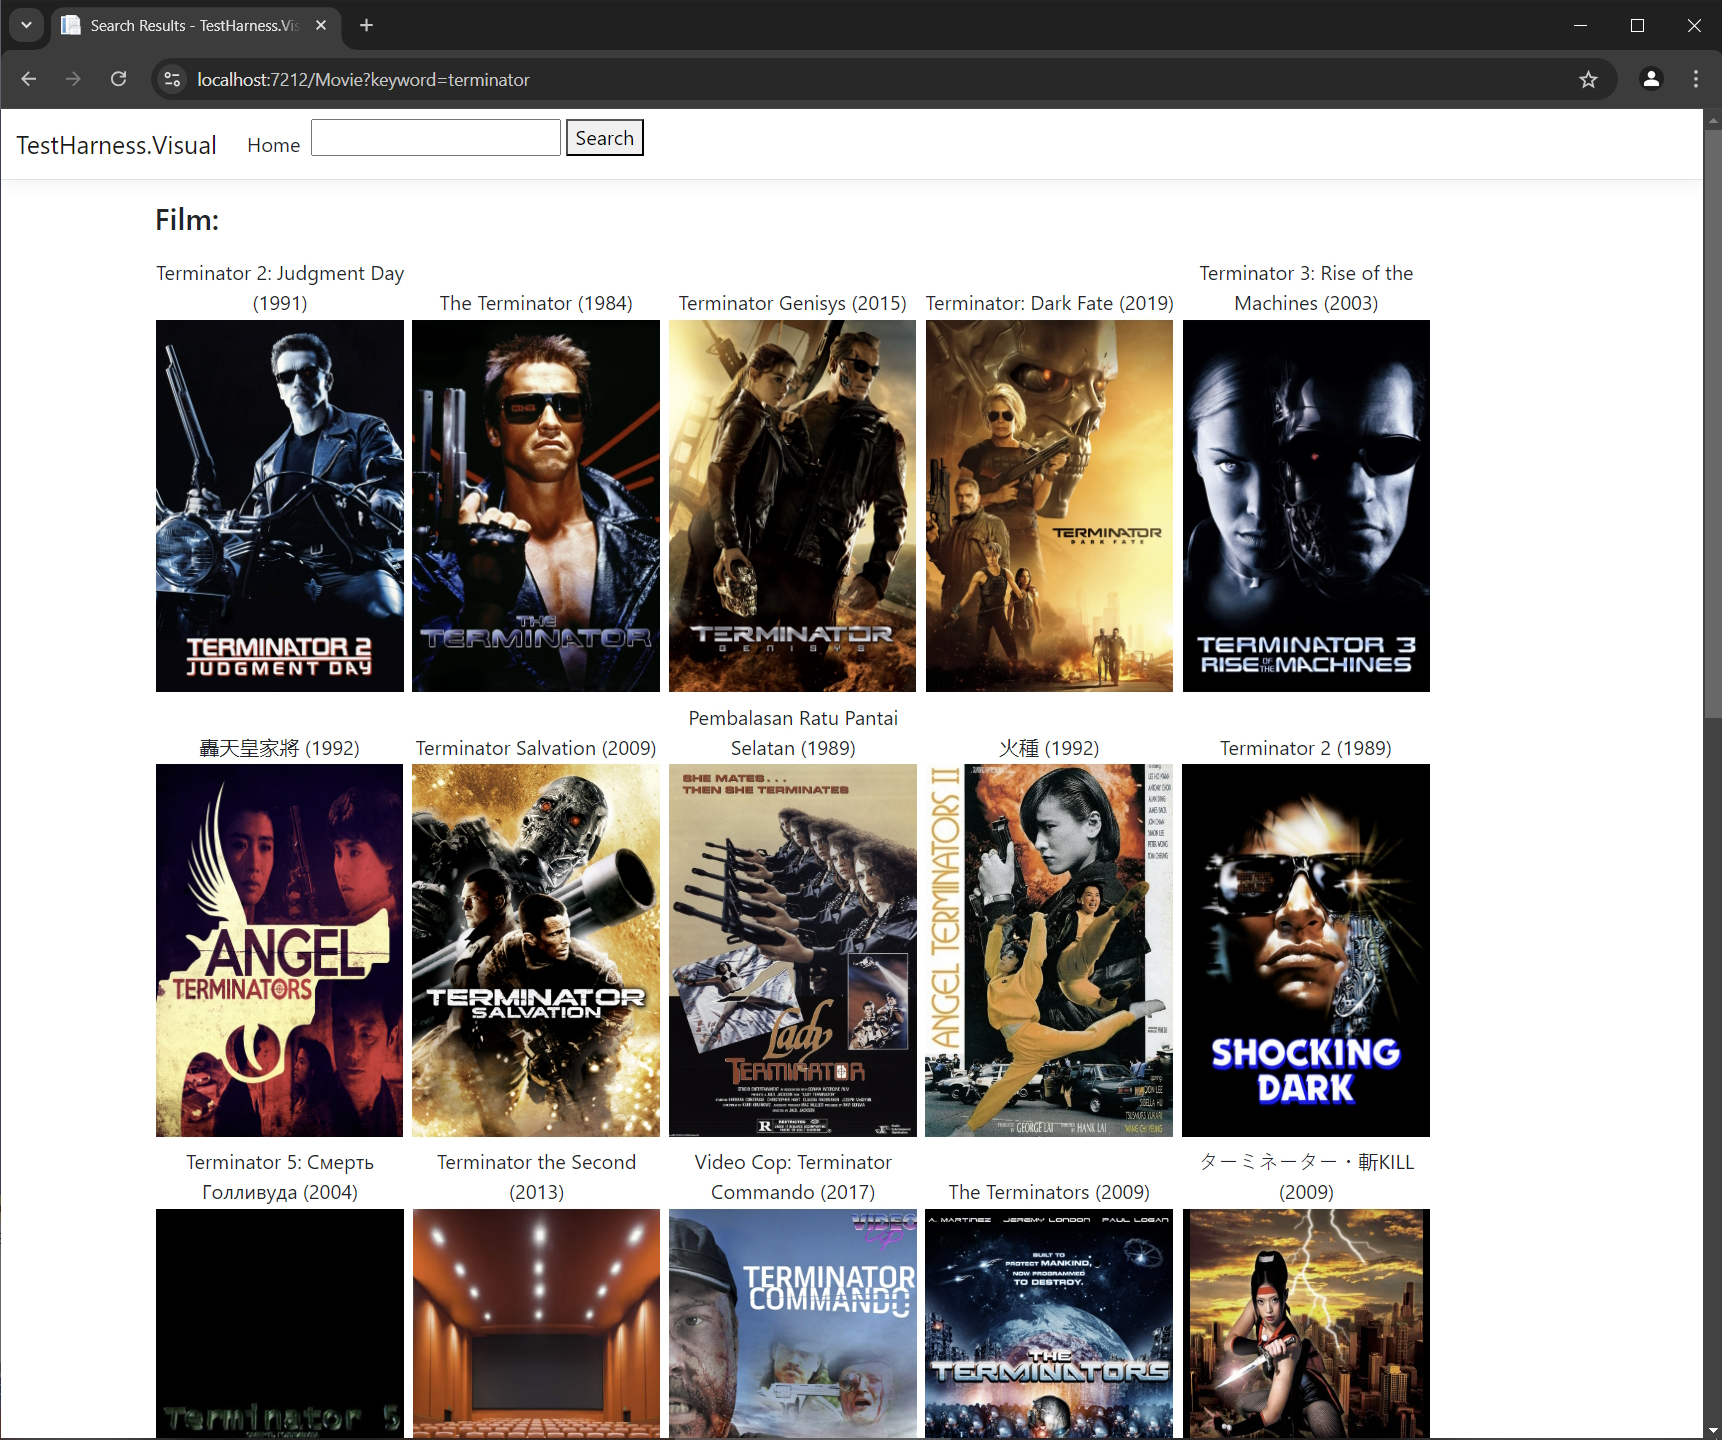
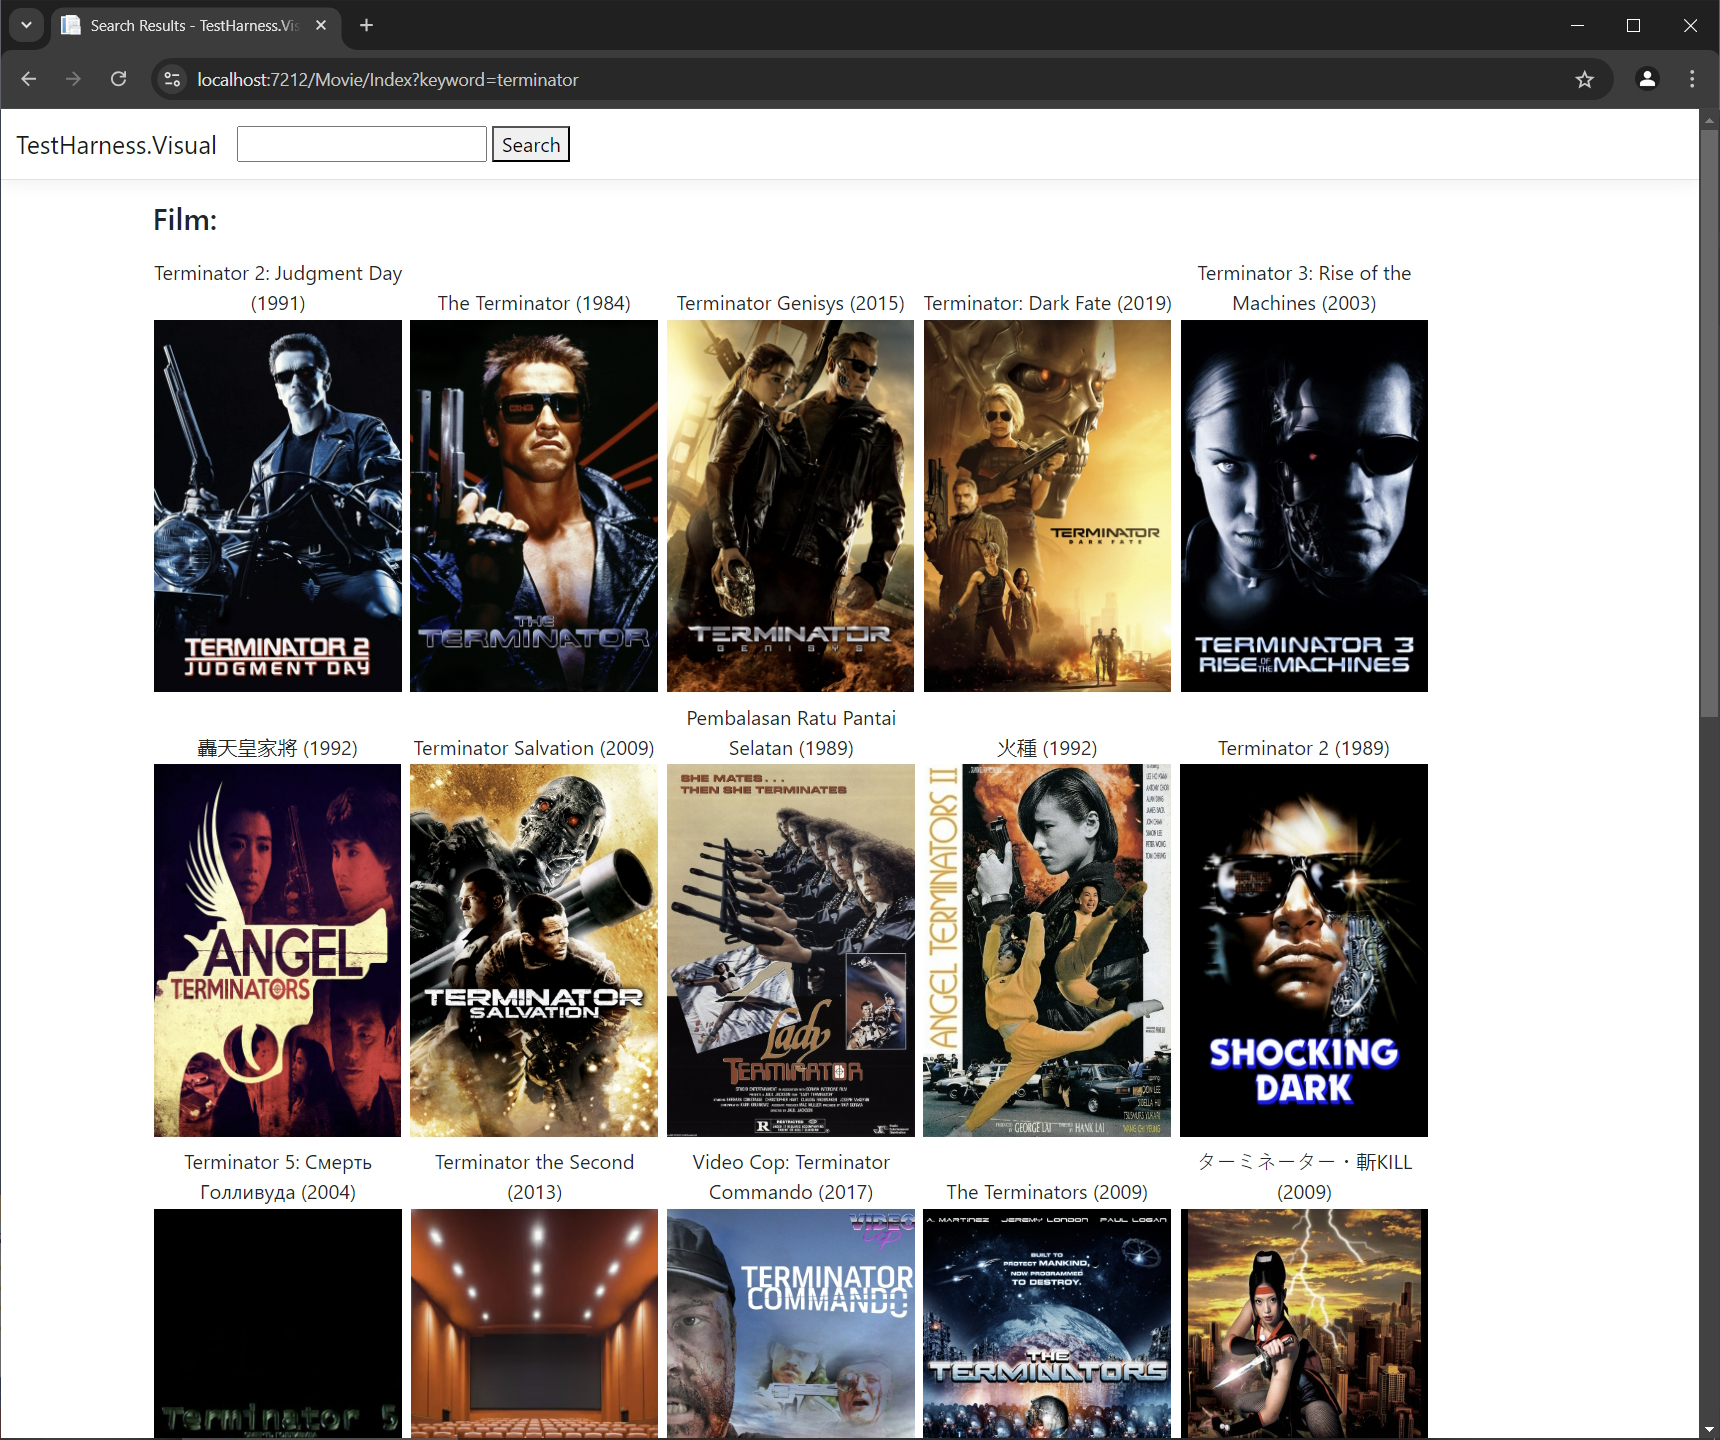
A few new TMDB API endpoints have now been added along with support for pulling back cast / crew data for film id results.  Some refactoring also done on the code and addition of updated images.

diff --git a/TestHarness.Visual/wwwroot/css/site.css b/TestHarness.Visual/wwwroot/css/site.css
@@ -28,3 +28,19 @@ body {
     /*padding-bottom: 10px;*/
     /*border: 1px solid black;*/
 }
+
+.filmTvPosterImgSize {
+    /*Poster sizing issues are caused if this is set to a % value*/
+    width: 198px;
+    height: 298px;
+}
+
+.filmTvDetailPosterImgSize {
+    width: 20%;
+    height: 20%;
+}
+
+.castImgSize {
+    width: 40%;
+    height: 40%;
+}

diff --git a/TmdbApi.Lib/Tmdb.cs b/TmdbApi.Lib/Tmdb.cs
@@ -34,7 +34,7 @@ namespace TmdbApi.Lib
                 {
                     return JsonConvert.DeserializeObject<Rootobject>(rawResponse);
                 }
-                catch(Exception ex) 
+                catch (Exception ex)
                 {
                     return null;
                 }
@@ -85,25 +85,58 @@ namespace TmdbApi.Lib
         {
             string query = Endpoint.SearchMovie + keyword + "&include_adult=false&language=en-US&page=1";
 
-            Rootobject result = CallTmdbApi(query);
-
-            return result;
+            return CallTmdbApi(query);
         }
 
         /// <summary>
-        /// Search the Movie endpoint for a specific result that matches the id
+        /// Search the TV endpoint for results that match the keyword
+        /// </summary>
+        /// <param name="keyword"></param>
+        /// <returns></returns>
+        public Rootobject SearchForTv(string keyword)
+        {
+            string query = Endpoint.SearchTV + keyword + "&include_adult=false&language=en-US&page=1";
+
+            return CallTmdbApi(query);
+        }
+
+        /// <summary>
+        /// Search the movie and credits endpoints for data that matches the specified movieId
         /// </summary>
         /// <param name="id"></param>
         /// <returns></returns>
-        public ResultReturn SearchForFilmById(int id)
+        public ResultReturn SearchForFilmAndCreditsById(int id)
         {
             ResultReturn resultReturn = new ResultReturn();
 
-            string query = Endpoint.SearchMovieId + id;
-
-            resultReturn.FilmIdResult = CallTmdbApi(query);
+            resultReturn.FilmIdResult = SearchForFilmById(id);
+            resultReturn.CreditsByFilmId = SearchForCreditsByFilmId(id);
 
             return resultReturn;
+        }
+
+        /// <summary>
+        /// Search for film information by movieId
+        /// </summary>
+        /// <param name="id"></param>
+        /// <returns></returns>
+        public Rootobject SearchForFilmById(int id)
+        {
+            string query = Endpoint.SearchMovieId + id;
+
+            return CallTmdbApi(query);
+        }
+
+        /// <summary>
+        /// Search for cast and crew information by movieId
+        /// </summary>
+        /// <param name="id"></param>
+        /// <returns></returns>
+        public Rootobject SearchForCreditsByFilmId(int id)
+        {
+            string query = Endpoint.SearchMovieId + id + Endpoint.Credits;
+
+            return CallTmdbApi(query);
         }
 
         /// <summary>
@@ -123,28 +156,14 @@ namespace TmdbApi.Lib
         }
 
         /// <summary>
-        /// Search the TV endpoint for results that match the keyword
-        /// </summary>
-        /// <param name="keyword"></param>
-        /// <returns></returns>
-        public Rootobject SearchForTv(string keyword)
-        {
-            string query = Endpoint.SearchTV + keyword + "&include_adult=false&language=en-US&page=1";
-
-            Rootobject result = CallTmdbApi(query);
-
-            return result;
-        }
-
-        /// <summary>
         /// Gets URL paths and logo and poster sizing information for films
         /// - https://developer.themoviedb.org/docs/image-basics
         /// - https://www.themoviedb.org/talk/5f3ef4eec175b200365ee352
         /// </summary>
         /// <param name="movieId"></param>
-        public void GetMovieImages(int movieId)
+        public void GetMovieImages(int id)
         {
-            string query = "/movie/" + movieId + "/images";
+            string query = Endpoint.SearchMovieId + id + Endpoint.MovieImages;
 
             Rootobject result = CallTmdbApi(query);
 

diff --git a/TestHarness.Visual/Controllers/MovieController.cs b/TestHarness.Visual/Controllers/MovieController.cs
@@ -19,16 +19,16 @@ namespace TestHarness.Visual.Controllers
 
         public IActionResult GetUserFilmSelectionById(int id)
         {
-            ResultReturn result = _tmdb.SearchForFilmById(id);
+            ResultReturn result = _tmdb.SearchForFilmAndCreditsById(id);
 
-            if (result.FilmIdResult != null)
+            if (result.FilmIdResult != null && result.CreditsByFilmId != null)
             {
                 return View(result);
             }
             else
             {
                 _errorViewModel = new ErrorViewModel();
-                _errorViewModel.Error = "FilmIdResult has been returned NULL.";
+                _errorViewModel.Error = "FilmIdResult or CreditsByFilmId has been returned NULL.";
 
                 return View("Error", _errorViewModel);
             }

diff --git a/TmdbApi.Lib/Models/Cast.cs b/TmdbApi.Lib/Models/Cast.cs
@@ -1,0 +1,18 @@
+namespace TmdbApi.Lib.Models
+{
+    public class Cast
+    {
+        public bool adult { get; set; }
+        public int gender { get; set; }
+        public int id { get; set; }
+        public string known_for_department { get; set; }
+        public string name { get; set; }
+        public string original_name { get; set; }
+        public float popularity { get; set; }
+        public string profile_path { get; set; }
+        public int cast_id { get; set; }
+        public string character { get; set; }
+        public string credit_id { get; set; }
+        public int order { get; set; }
+    }
+}

diff --git a/TmdbApi.Lib/Models/Crew.cs b/TmdbApi.Lib/Models/Crew.cs
@@ -1,0 +1,17 @@
+namespace TmdbApi.Lib.Models
+{
+    public class Crew
+    {
+        public bool adult { get; set; }
+        public int gender { get; set; }
+        public int id { get; set; }
+        public string known_for_department { get; set; }
+        public string name { get; set; }
+        public string original_name { get; set; }
+        public float popularity { get; set; }
+        public string profile_path { get; set; }
+        public string credit_id { get; set; }
+        public string department { get; set; }
+        public string job { get; set; }
+    }
+}

diff --git a/TmdbApi.Lib/Class/Endpoint.cs b/TmdbApi.Lib/Class/Endpoint.cs
@@ -10,5 +10,10 @@
         public const string MoviesNowPlaying = "/movie/now_playing?language=en-US&page=1&region=GB";
         public const string Languages = "/configuration/languages";
         public const string Countries = "/configuration/countries";
+
+        // The below endpoints need to be tagged onto the end of a 'SearchMovieId' request alongside a valid movieId
+        public const string Providers = "/watch/providers";
+        public const string Credits = "/credits";
+        public const string MovieImages = "/images";
     }
 }

diff --git a/TmdbApi.Lib/Models/Rootobject.cs b/TmdbApi.Lib/Models/Rootobject.cs
@@ -1,4 +1,6 @@
-namespace TmdbApi.Lib.Models
+using static TmdbApi.Lib.Tmdb;
+
+namespace TmdbApi.Lib.Models
 {
     public class Rootobject
     {
@@ -53,5 +55,7 @@
         public string original_name { get; set; }
         public Season[] seasons { get; set; }
         public string type { get; set; }
+        public Cast[] cast { get; set; }
+        public Crew[] crew { get; set; }
     }
 }

diff --git a/TestHarness.Console/Run.cs b/TestHarness.Console/Run.cs
@@ -12,9 +12,9 @@ namespace TestHarness.Console
 
             tmdb.SearchForFilmTV("Robocop");
 
-            tmdb.GetMovieImages(5548);
+            tmdb.SearchForFilmAndCreditsById(5548);
 
-            tmdb.SearchForFilmById(5548);
+            tmdb.GetMovieImages(5548);
 
             tmdb.MoviesNowPlaying();
 

diff --git a/TmdbApi.Lib/Models/ResultReturn.cs b/TmdbApi.Lib/Models/ResultReturn.cs
@@ -7,5 +7,6 @@
         public Rootobject FilmIdResult { get; set; }
         public Rootobject TVIdResult { get; set; }
         public Rootobject MoviesNowPlaying { get; set; }
+        public Rootobject CreditsByFilmId { get; set; }
     }
 }
